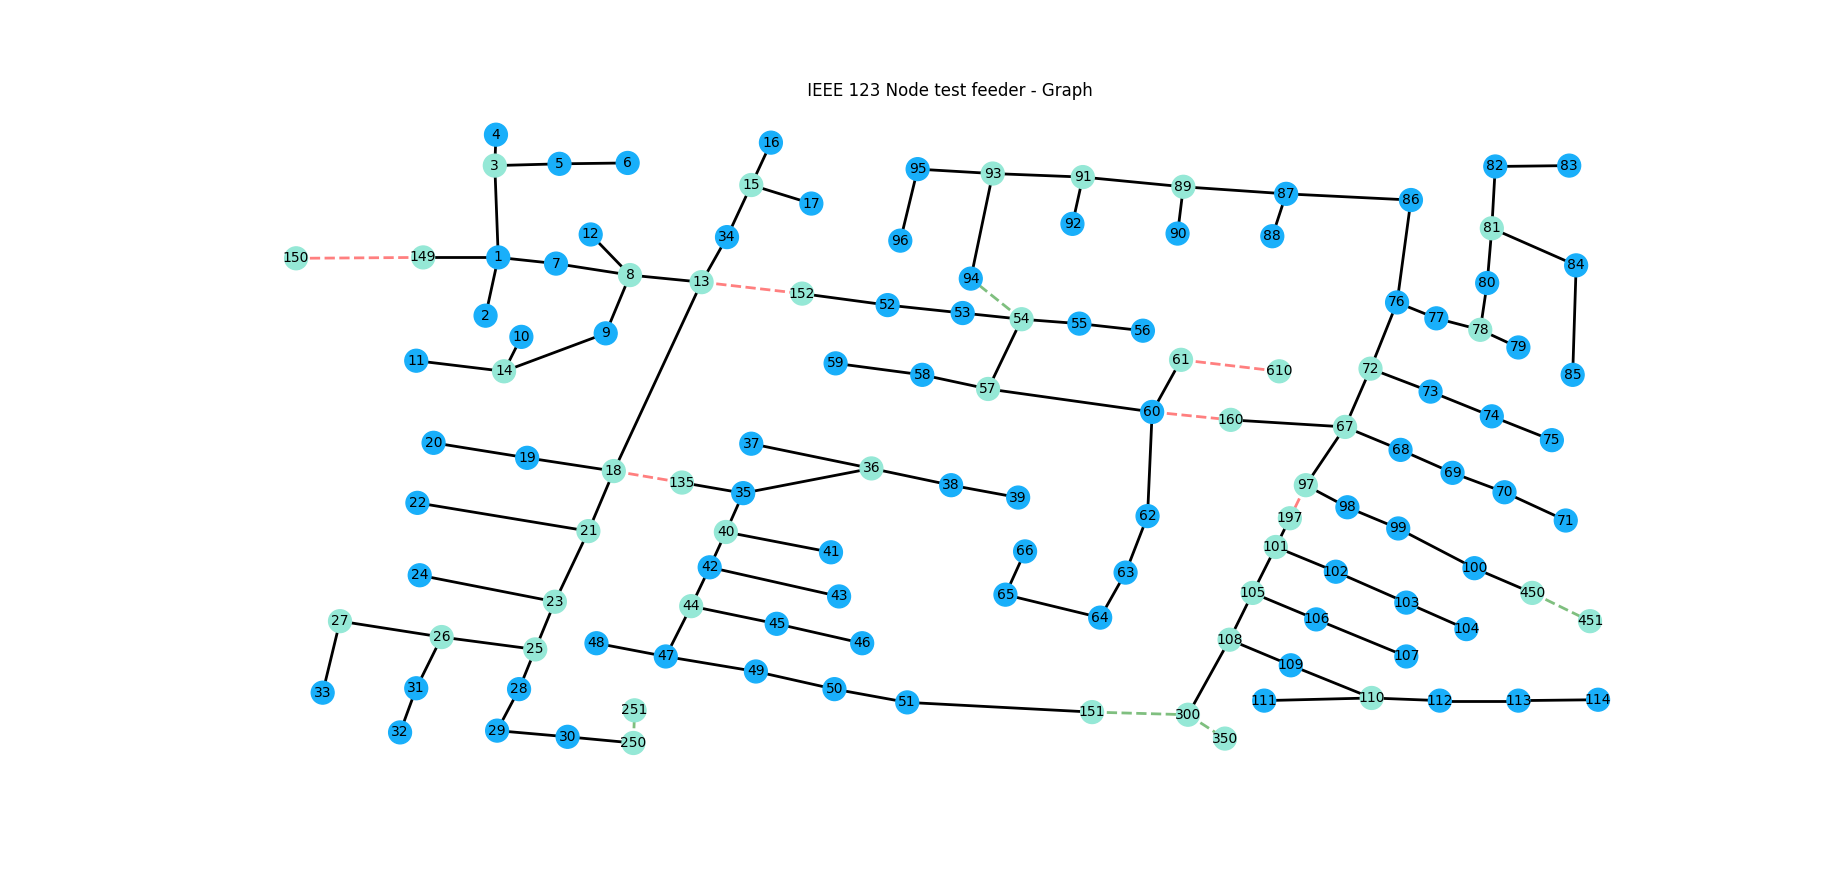
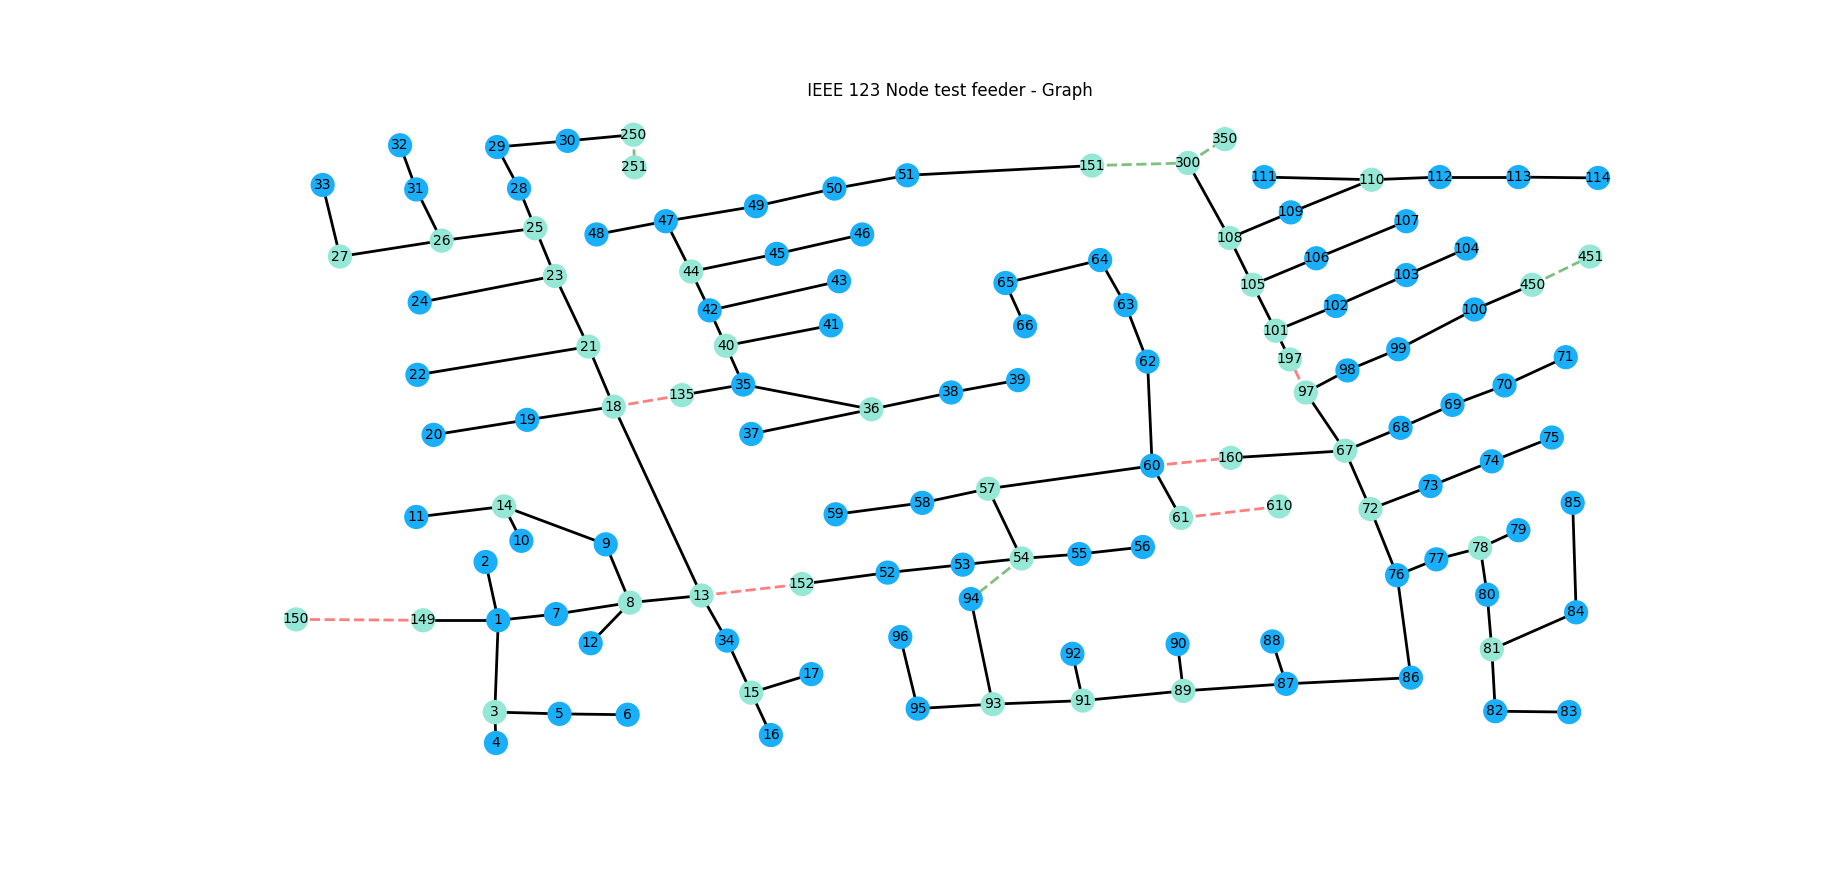
Updated scenario and fixed Y coordinates

diff --git a/src/graph/graph.py b/src/graph/graph.py
@@ -87,7 +87,7 @@ class Graph(object):
         pos = nx.spring_layout(G_nx, k=0.2)
 
         for position in positions:
-            pos[position["node"]] = (position["x"], position["y"])
+            pos[position["node"]] = (position["x"], -position["y"])
 
         for node in G_nx:
             if self.findNode(node)[1].type == Node.NORMAL:
